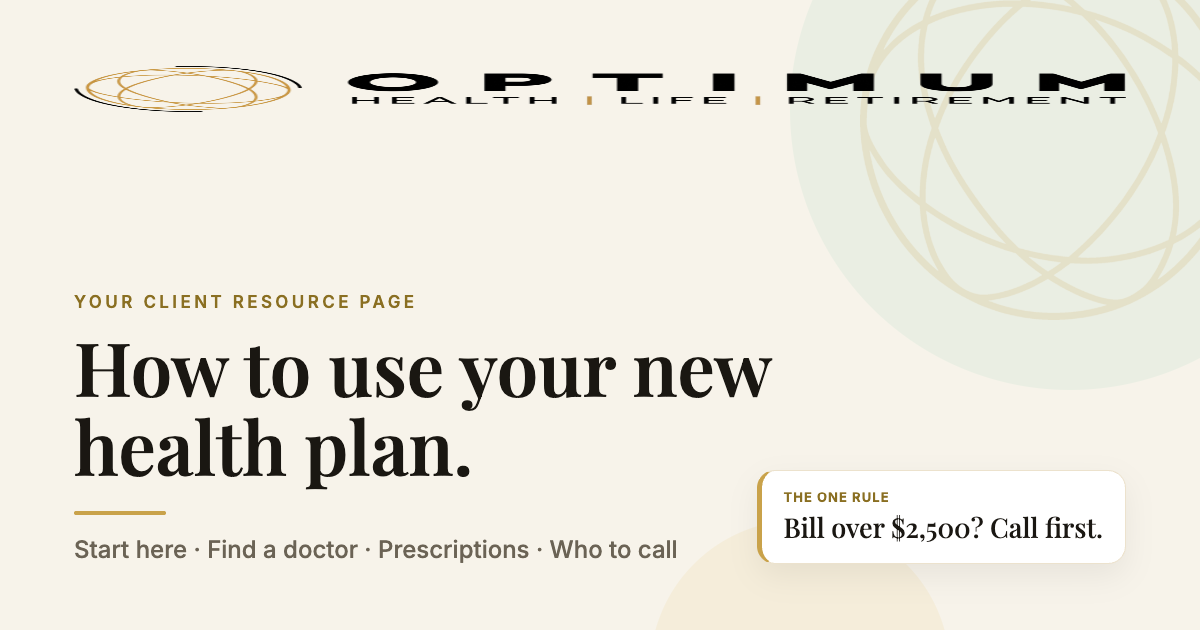
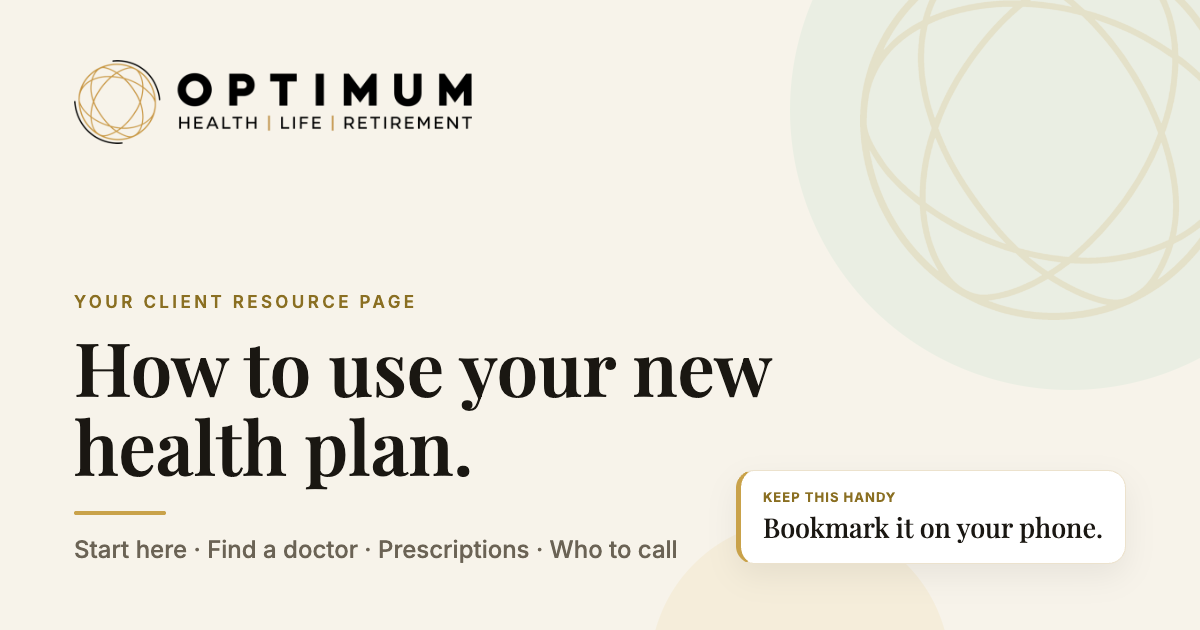
Rebuild preview cards and add a home-screen shortcut
Fixes the stretched logo on the preview cards and enlarges it, swaps the
ManhattanLife card message to 'Keep this handy', and gives the resource
page a web app manifest plus an 'Add to home screen' bar: Android gets
the real install prompt, iPhone gets the Share-sheet instruction.

diff --git a/manhattanlife/index.html b/manhattanlife/index.html
@@ -19,6 +19,9 @@
 <link rel="icon" href="/favicon-32.png" sizes="32x32">
 <link rel="icon" href="/favicon-16.png" sizes="16x16">
 <link rel="apple-touch-icon" href="/apple-touch-icon.png">
+<link rel="manifest" href="manifest.webmanifest">
+<meta name="apple-mobile-web-app-title" content="My Plan">
+<meta name="theme-color" content="#F7F3EA">
 <link rel="preconnect" href="https://fonts.googleapis.com">
 <link href="https://fonts.googleapis.com/css2?family=Playfair+Display:wght@500;600;700&family=Inter:wght@400;500;600;700&display=swap" rel="stylesheet">
 <style>
@@ -135,6 +138,10 @@
   .vendor .qr{width:84px;height:84px;background:#fff;padding:4px;border:1px solid var(--line);border-radius:10px}
   .vendor .qr img,.vendor .qr canvas{width:100%;height:100%;display:block}
   .vendor small{display:block;color:var(--muted);font-size:.82rem;margin-top:.35rem}
+  .saveme{display:flex;gap:1.25rem;align-items:center;justify-content:space-between;flex-wrap:wrap;background:var(--card);border:1px solid var(--line);border-left:4px solid var(--gold);border-radius:18px;padding:1.1rem 1.4rem;margin:1.75rem 0 .5rem}
+  .saveme strong{display:block;font-family:var(--display);font-size:1.05rem}
+  .saveme span{display:block;color:var(--muted);font-size:.9rem;margin-top:.2rem}
+  .saveme button{cursor:pointer;font-family:var(--ui)}
   .wellcard{background:var(--card);border:1px solid var(--line);border-radius:16px;padding:1.4rem 1.6rem;margin-top:1rem}
   .wellhead{display:flex;gap:1.5rem;align-items:center;justify-content:space-between;flex-wrap:wrap}
   .wellcard .use{font-family:var(--ui);font-weight:600;letter-spacing:.14em;text-transform:uppercase;font-size:.7rem;color:var(--gold-deep);margin-bottom:.3rem}
@@ -239,6 +246,15 @@
 </nav>
 
 <main class="wrap">
+
+<div class="saveme" id="saveme">
+  <div>
+    <strong>Keep this page one tap away.</strong>
+    <span id="savehow">Add it to your phone's home screen and it opens like an app.</span>
+  </div>
+  <button class="btn" id="savebtn" type="button">Add to home screen</button>
+</div>
+
 
 <section id="start">
   <h2>Start here — four things this week.</h2>
@@ -492,6 +508,22 @@
   // QR codes
   function qr(el,text,size){ if(!window.QRCode){ return; } el.innerHTML=''; new QRCode(el,{text:text,width:size,height:size,correctLevel:QRCode.CorrectLevel.M}); }
   document.querySelectorAll('[data-qr]').forEach(function(el){ qr(el,el.dataset.qr,76); });
+  // add to home screen
+  (function(){
+    var bar=document.getElementById('saveme'),btn=document.getElementById('savebtn'),how=document.getElementById('savehow');
+    if(!bar){ return; }
+    var standalone=window.matchMedia('(display-mode: standalone)').matches||window.navigator.standalone;
+    if(standalone){ bar.style.display='none'; return; }
+    var ua=navigator.userAgent, isIOS=/iPad|iPhone|iPod/.test(ua), deferred=null;
+    window.addEventListener('beforeinstallprompt',function(e){ e.preventDefault(); deferred=e; });
+    btn.addEventListener('click',function(){
+      if(deferred){ deferred.prompt(); deferred=null; return; }
+      how.innerHTML = isIOS
+        ? 'Tap the <b>Share</b> button at the bottom of Safari, then <b>Add to Home Screen</b>.'
+        : 'Open your browser menu and choose <b>Add to Home screen</b> (or <b>Install</b>).';
+      btn.textContent='Got it';
+    });
+  })();
   // reveal on scroll, same as the main site — with a failsafe so nothing can stay hidden
   (function(){
     var els=document.querySelectorAll('section > h2, section > .kicker, section > .lead, .step, .card, .vendor, .wellcard, .rule, .hero-card, .matrix');
